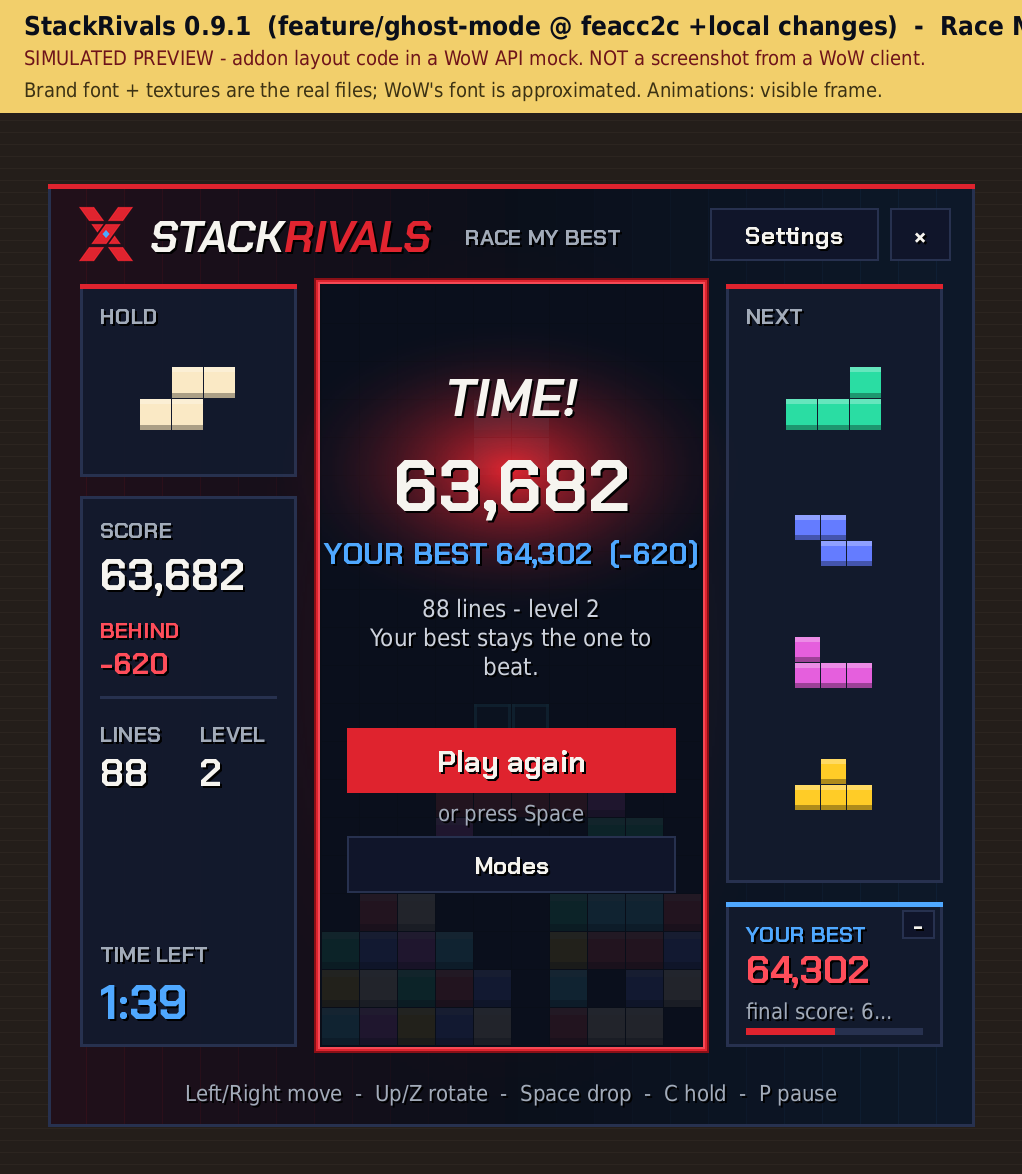
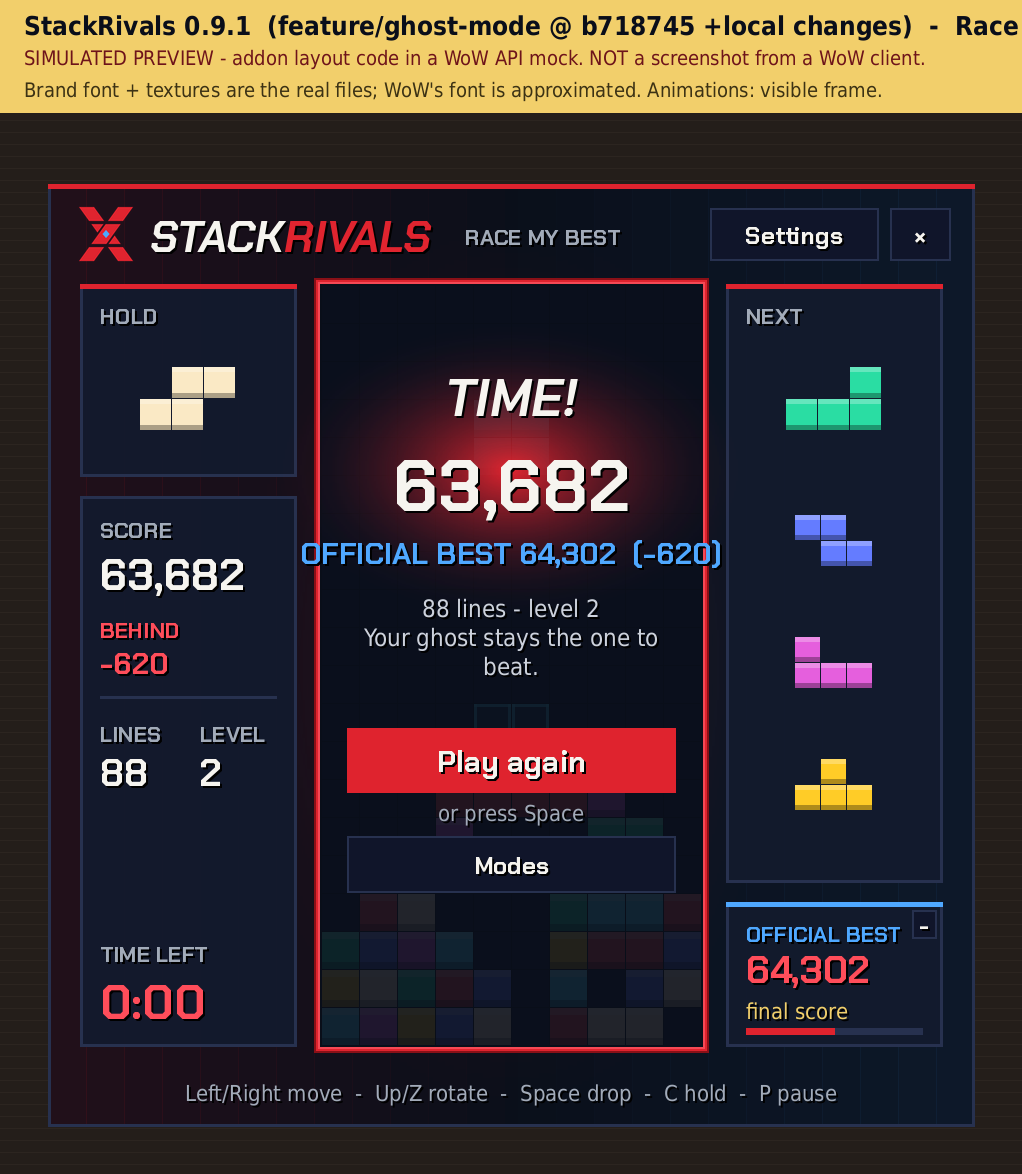
Race My Best: polish - Official Best vs Race Best, NEW RACE BEST, finished ghost, panel text
- Official Best (normal records) and Race Best (Race My Best) named apart: panel title,
  result badge, menu tooltip, and a separate 'Race best' row on the Records cards
- 'NEW RACE BEST' / 'PAST YOUR GHOST' replaces 'NEW BEST / PERSONAL RECORD' in a race
- raceRecords (best, date, races, wins) saved and sanitized; races never touch records;
  resetting records also resets Race My Best
- a ghost that ended before you: final score with 'final score' in gold
- panel text fits: 94-wide state line, narrower '-' button, '+' moved next to SCORE
- previews 30e/30f end on the real time limit (TIME LEFT 1:39 was preview data only);
  new previews 30h (finished ghost) and 30i (Records with Race best)
- tests: Official vs Race Best, wording, finished ghost, time-out 0:00, UI scale and
  small screens, old saves

Claude-Session: https://claude.ai/code/session_01LiW3zmovtBQaJSqhVrufGo

diff --git a/docs/RACE_MY_BEST.md b/docs/RACE_MY_BEST.md
@@ -10,13 +10,23 @@ ved siden af dig, tick for tick.
 
 * **Menuen:** knappen **RACE MY BEST** på Classic- og Time Trial-kortet. Den er grå, når der ikke er et løb
   at køre imod, og tooltip'en siger hvorfor. `/sr best` (Classic) og `/sr best trial` virker også.
+* **To slags bedste:** **Official Best** er din normale Classic- eller Time Trial-rekord. **Race Best** er dit
+  bedste resultat i Race My Best. De står hver for sig overalt: panelet, resultatet, menuens tooltip og
+  Records. **Et ghost-løb ændrer aldrig Official Best** (din beslutning).
 * **Under løbet:** et panel under NEXT i samme stil som modstanderens panel i en duel (stålblå = den anden
-  side). Det viser dit bedste løbs score lige nu, level og linjer og en "tovtrækning". I SCORE-panelet står
+  side). Overskriften siger, hvad du kører imod: **OFFICIAL BEST** (din rekord) eller **RACE BEST** (et vundet
+  ghost-løb). Panelet viser ghostens score lige nu, level og linjer og en "tovtrækning". I SCORE-panelet står
   **AHEAD** (grøn) / **BEHIND** (rød) / **LEVEL** med forskellen.
+* **Når ghosten er færdig før dig** (den toppede ud): panelet viser dens **slutscore**, linjen under skifter
+  til "final score" i guld, og AHEAD/BEHIND regnes mod slutscoren.
 * **Øjeblikkene:** når du går forbi dit bedste løbs tempo, pulserer panelet. Når du passerer dets
-  **slutscore**, kommer det store øjeblik én gang: **NEW BEST / PERSONAL RECORD**, et gyldent skær og en lyd.
+  **slutscore**, kommer det store øjeblik én gang: **NEW RACE BEST** (undertekst "PAST YOUR GHOST"), et gyldent
+  skær og en lyd. Ordet "record" bruges ikke, fordi det ikke er en officiel rekord.
   "Reduce effects" beholder tekst og lyd og dropper skæret.
-* **Resultatet:** "BEAT YOUR BEST +N", "TIED YOUR BEST" eller "YOUR BEST 64,302 (-620)".
+* **Resultatet:** "NEW RACE BEST +N" med "Your next ghost. Official best stays 64,302.", "TIED YOUR OFFICIAL
+  BEST" eller "OFFICIAL BEST 64,302 (-620)" / "RACE BEST 66,182 (-620)".
+* **Records:** Classic- og Time Trial-kortet har en ekstra linje **Race best**. Antal races står i menuens
+  tooltip. Nulstilling af rekorder nulstiller også Race My Best.
 * **Til og fra:** "–" på panelet skjuler det (løbet fortsætter, SCORE-panelet viser så kun din bedste
   slutscore), og "+" eller `/sr best panel` viser det igen.
 
@@ -30,6 +40,7 @@ Det bedste løb i hver mode var allerede gemt som input-log i `records[mode].bes
 |---|---|---|
 | Dit bedste løb (som før) | `records.classic.bestLog`, `records.blitz.bestLog` | uændret |
 | Et vundet ghost-løb (det næste, du kører imod) | `ghosts.classic`, `ghosts.blitz` (ny) | højst ét pr. mode, højst 300.000 tegn (et 2-min.-løb fylder ca. 8 KB) |
+| Race Best | `raceRecords.classic`, `raceRecords.blitz` (ny): bedste score, dato, races, sejre | kun tal; affald droppes |
 | Panel til/fra | `settings.raceBestPanel` (ny, standard til) | – |
 | Et afbrudt løb (`/reload`) | `suspended.ghostId` (ny): hvilket ghost det var imod | 8 hex-tegn |
 
@@ -38,12 +49,35 @@ og en fuld genafspilning giver præcis den score, der er gemt. Ellers er knappen
 replay fra en ældre version, anden engine-version, andre regler, eller scoren passer ikke). Den fulde
 kontrol køres én gang pr. ghost, når du trykker på knappen, ikke ved hver menuopdatering.
 
-## En beslutning, du skal tage stilling til
+## Beslutning (taget)
 
-**Et ghost-løb ændrer ikke dine normale rekorder.** Du kender brikkerne på forhånd, så en score mod dit
-eget bedste løb er en anden konkurrence end en ny Time Trial med nye brikker. En vundet ghost-race bliver i
-stedet det løb, du kører imod næste gang. Hvis du hellere vil have, at en vundet race også tæller som ny
-rekord, er det en ændring på én linje.
+**Ghost-løb ændrer ikke de normale Classic- eller Time Trial-rekorder.** Du kender brikkerne på forhånd, så
+det er en anden konkurrence. En vundet ghost-race bliver dit nye Race Best og det løb, du kører imod næste
+gang. Testene kontrollerer, at Official Best er uændret efter både tabte og vundne races.
+
+## TIME LEFT 1:39 på resultatbilledet (punkt 4)
+
+Undersøgt: det var **kun simulerede data**. Previewbillederne 30e/30f stoppede løbet efter 20 sekunder med
+`finish("time")`, så uret stod på 1:39. Et rigtigt Time Trial-løb slutter først, når tiden er brugt op.
+Billederne går nu helt til tidsgrænsen og viser 0:00, og en ny test kører et ghost-løb til tiden løber ud og
+kontrollerer "TIME!" og 0:00.
+
+## UI-skala og mindre skærme (punkt 6)
+
+Hele vinduet skaleres som én enhed (`UI:ApplyScale`: 58 % af skærmhøjden ved 100 %, aldrig større end
+skærmen). Panelet ligger inde i vinduet i vinduets egne enheder, så det følger med. Testet i mocken ved
+1024×768 med 70 % og 140 %, 1366×768 og 2560×1440 med 140 %: vinduet er på skærmen, panelet inde i vinduet, og
+alle panelets tekster (også "OFFICIAL BEST", "LV 20 - 999 lines", "1234 lines") passer i deres bredde, med
+mindst 4 enheders luft til "–"-knappen. Mocken bruger en tilnærmet skrift, så **det endelige bevis er rigtig
+WoW** (G9 nedenfor).
+
+## Afkortet tekst (punkt 5)
+
+* Statuslinjen er 94 bred (før 90) og bruger "LV 12 - 128 lines". Over 999 linjer (lange Classic-løb)
+  vises kun "1234 lines".
+* "–"-knappen er smallere (12), så "OFFICIAL BEST" har plads.
+* "+"-knappen (vis panelet igen) sidder ved SCORE, så den ikke støder ind i "OFFICIAL BEST" under den.
+* "no ghost (changed)" er nu "ghost changed".
 
 ## Det, prototypen ikke gør
 
@@ -54,7 +88,8 @@ rekord, er det en ændring på én linje.
 
 ## Tests
 
-`tests/test_ghost.lua`, 15 tests (simulerede klienter, ikke en rigtig WoW-klient). CI på Lua 5.1: 922 bestået, 0 fejl (`50e906d`).
+`tests/test_ghost.lua`, 20 tests (simulerede klienter, ikke en rigtig WoW-klient). CI på Lua 5.1: se
+nederst.
 
 | Krav | Test |
 |---|---|
@@ -69,24 +104,38 @@ rekord, er det en ændring på én linje.
 | SavedVariables (8, 10) | Gamle filer indlæses; affald og for store logs droppes |
 | Classic | Et endeløst løb, der toppede ud, vises som "topped out" |
 | Lokal | Ingen beskeder sendt |
+| Official vs Race Best (1–3) | Tabt og vundet race: Race Best, races og sejre opdateres; Official Best uændret; panelet skifter fra OFFICIAL BEST til RACE BEST; Records-linjen og tooltip'en viser begge; nulstilling rydder Race My Best |
+| NEW RACE BEST (2) | Overskriften er "NEW" / "RACE BEST" / "PAST YOUR GHOST"; resultatet "NEW RACE BEST +N" og "Official best stays …" |
+| Ghosten færdig (7) | Ghost, der toppede ud: slutscore i panelet, "final score", ingen afkortning, sammenligning med slutscoren |
+| TIME LEFT (4) | Et ghost-løb til tiden: TIME! og 0:00 |
+| Skala / skærme (5, 6) | Fire skærm- og skalakombinationer; tekster passer; luft til knappen |
+| Gamle filer | Ingen Race Best indlæses fint; affald i den droppes |
 | Ydelse | CI (Lua 5.1): fuld kontrol 18,5 ms én gang pr. ghost; ghosten 3,2 µs pr. frame |
 
-Layout-testene kører også de 7 nye skærmbilleder igennem for overlap.
+Layout-testene kører også de 9 skærmbilleder igennem for overlap og tekst inden for knapper.
 
 ## Billeder
 
-`docs/preview/race/`: 7 simulerede billeder (WoW API-mock, **ikke** skærmbilleder fra WoW). Scorerne i
-nogle af dem er sat til for at vise en tilstand.
+`docs/preview/race/`: 9 simulerede billeder (WoW API-mock, **ikke** skærmbilleder fra WoW). Scorerne i
+nogle af dem er sat til for at vise en tilstand. Nye: `30h` (ghosten færdig før dig) og `30i` (Records med
+Race best).
 
 ## Test i rigtig WoW (når du giver GO til at installere en testversion)
 
 | # | Test | Forventet |
 |---|---|---|
-| G1 | Spil en Time Trial til ny rekord, gå til menuen | RACE MY BEST er aktiv på Time Trial-kortet |
-| G2 | Klik RACE MY BEST | Samme brikker som dit bedste løb; panel under NEXT; ingen Lua-fejl |
+| G1 | Spil en Time Trial til ny rekord, gå til menuen | RACE MY BEST er aktiv; tooltip viser Official Best |
+| G2 | Klik RACE MY BEST | Samme brikker som dit bedste løb; panel med **OFFICIAL BEST**; ingen Lua-fejl |
 | G3 | Stå stille i 10 s | BEHIND i rødt, panelets score stiger |
 | G4 | Spil, til du er foran | AHEAD i grønt, en kort puls på panelet |
-| G5 | Gå forbi din rekord | NEW BEST én gang, med skær (uden skær med Reduce effects) |
-| G6 | `/reload` midt i et løb, Continue | Samme sted, samme ghost |
-| G7 | "–" og "+" | Panelet forsvinder og kommer igen; løbet fortsætter |
-| G8 | Efter løbet: Records | Den normale rekord er uændret |
+| G5 | Gå forbi ghostens slutscore | **NEW / RACE BEST / PAST YOUR GHOST** én gang, med skær (uden skær med Reduce effects) |
+| G6 | Spil løbet færdigt (vundet) | "NEW RACE BEST +N", "Official best stays …"; uret 0:00 |
+| G7 | Records | Official Best uændret; **Race best** viser den nye score |
+| G8 | Play again | Panelet hedder nu **RACE BEST** og kører mod det vundne løb |
+| G9 | Lad ghosten toppe ud før dig (kør mod et løb, der sluttede tidligt) | Slutscore i panelet, "final score" i guld, intet afkortet |
+| G10 | `/reload` midt i et løb, Continue | Samme sted, samme ghost |
+| G11 | "–" og "+" (ved SCORE) | Panelet forsvinder og kommer igen; løbet fortsætter; SCORE-panelet viser OFFICIAL BEST / RACE BEST |
+| G12 | UI Scale: Interface-indstillingen UI Scale lav (fx 0,64) og høj (1,0), og Settings → Size 70 % og 140 % | Vinduet er på skærmen; ingen afkortet tekst i panelet; "OFFICIAL BEST" rører ikke "–" |
+| G13 | Mindre opløsning (vindue-tilstand fx 1280×720) | Som G12 |
+
+Tag gerne et skærmbillede af G6, G9 og G12, så vi kan sammenligne med previewbillederne.

diff --git a/CHANGELOG.md b/CHANGELOG.md
@@ -8,7 +8,9 @@
   pieces of your best Classic / Time Trial run with that run replayed beside you (panel under NEXT, AHEAD /
   BEHIND, a big moment once when you pass its final score). Local only; never changes the normal records;
   a won race is the next ghost. Uses the input log already saved with every best: no engine or protocol
-  change. `/sr best [trial]`, `/sr best panel`.
+  change. `/sr best [trial]`, `/sr best panel`. Polish: Official Best and Race Best are named apart (panel,
+  result, tooltip, a "Race best" row in Records); "NEW RACE BEST" instead of "NEW BEST / PERSONAL RECORD";
+  a finished ghost shows its final score in gold; tighter panel text; previews end on time (0:00).
 - **Quality audit** (branch `audit/0.9.1-quality`, full list in `docs/AUDIT_0.9.1.md`):
   - multiplayer: comm-test pings can't fill another player's send queue any more (this changed duel and
     Loot Duel results; also present in 0.9.0), no forced Quickplay match, the log wait follows progress,
